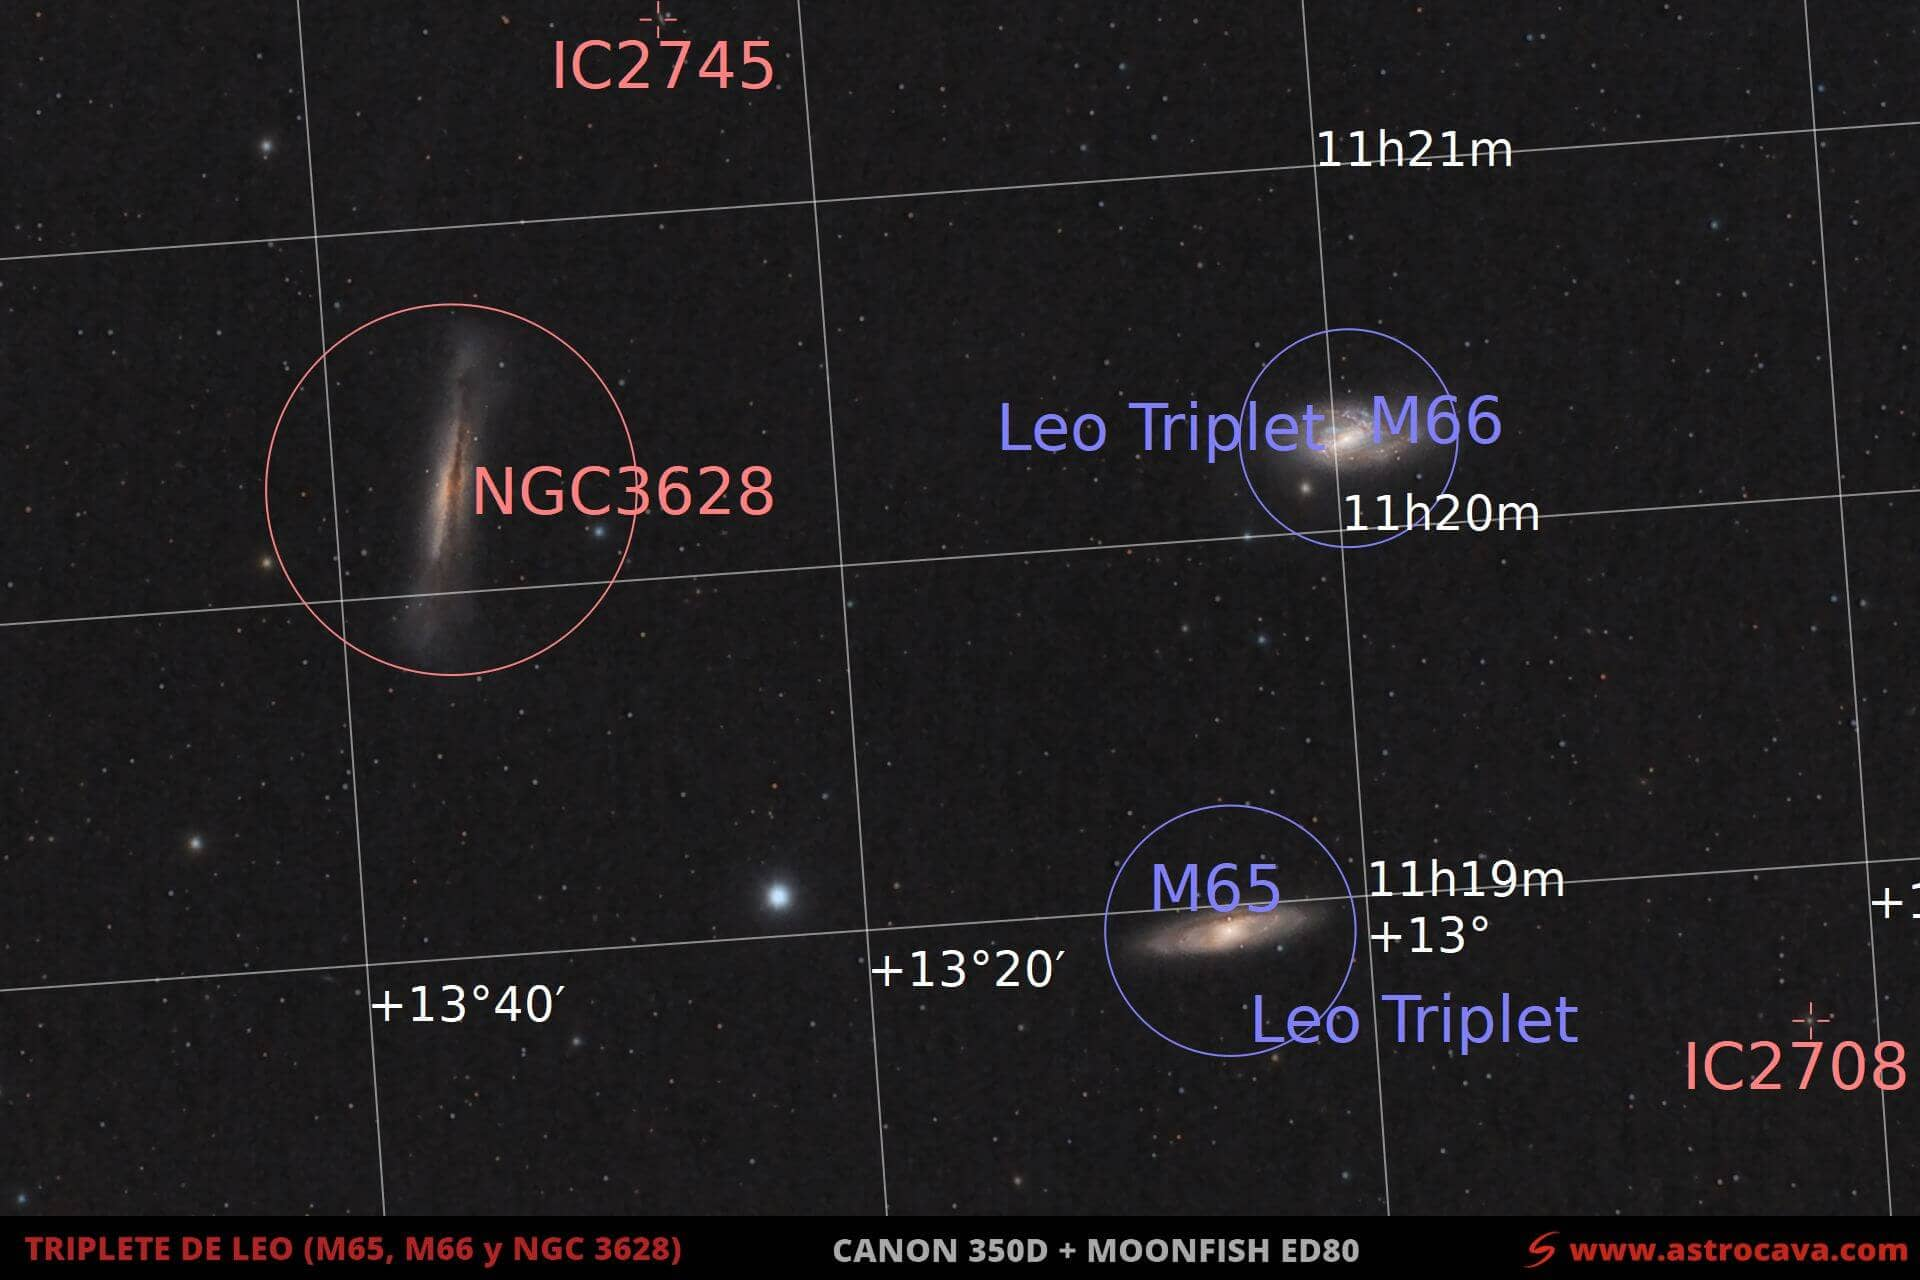
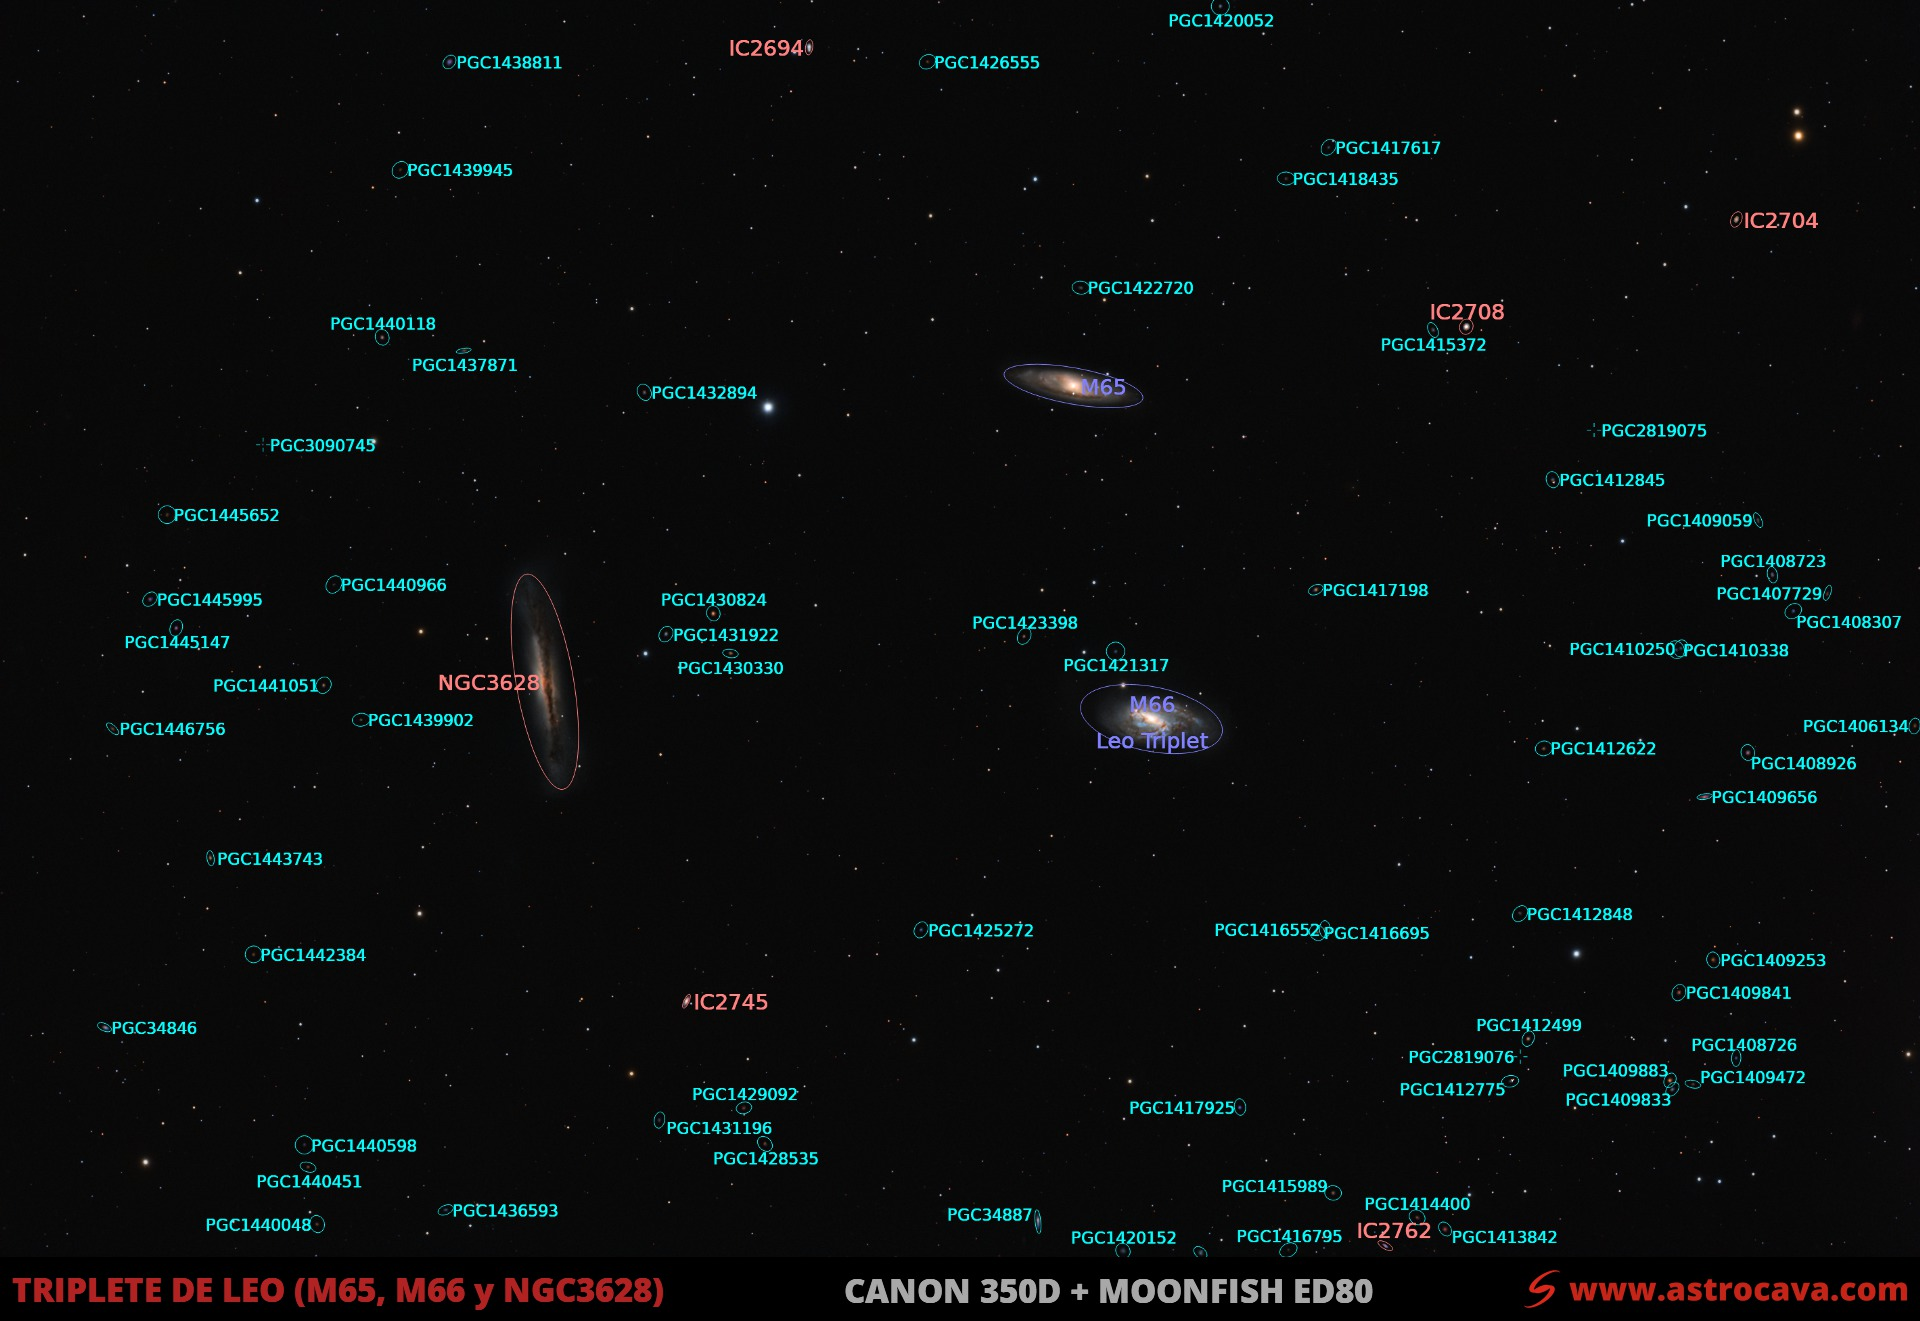
Update Leo Triplet imagery

diff --git a/src/content/entries/el-triplete-de-galaxias-en-leo-m65-m66-y-ngc3628.md b/src/content/entries/el-triplete-de-galaxias-en-leo-m65-m66-y-ngc3628.md
@@ -24,4 +24,4 @@ twitter_title: ''
 twitter_description: ''
 twitter_image: /content/images/2024/04/triplete-galaxias-leo-m65-m66-ngc3628_2011_canon-350d_refractor-ed80_original.jpg
 ---
-<p>El famoso «Triplete de Leo», formado por las galaxias M65 y M66 pertenecientes al <a href="/tag/messier/" rel="noreferrer">Catálogo Messier</a> junto a NGC3628, todas ellas espirales pero con inclinaciones variadas respecto a nuestro punto de vista que las hacen aparecer muy diferentes a la hora de observarlas o fotografiarlas.</p><ul><li>Exposición: 24x600s</li><li>Fecha adquisición: 25/01/2011</li><li>Equipo: Moonfish ED80-Canon EOS 350D</li></ul><figure class="kg-card kg-image-card kg-width-wide"><img src="/content/images/2024/04/triplete-galaxias-leo-m65-m66-ngc3628_2011_canon-350d_refractor-ed80_anotada.jpg" class="kg-image" alt="" loading="lazy" width="1920" height="1280" srcset="/content/images/size/w600/2024/04/triplete-galaxias-leo-m65-m66-ngc3628_2011_canon-350d_refractor-ed80_anotada.jpg 600w, /content/images/size/w1000/2024/04/triplete-galaxias-leo-m65-m66-ngc3628_2011_canon-350d_refractor-ed80_anotada.jpg 1000w, /content/images/size/w1600/2024/04/triplete-galaxias-leo-m65-m66-ngc3628_2011_canon-350d_refractor-ed80_anotada.jpg 1600w, /content/images/2024/04/triplete-galaxias-leo-m65-m66-ngc3628_2011_canon-350d_refractor-ed80_anotada.jpg 1920w" sizes="(min-width: 1200px) 1200px"></figure><p>Las tres galaxias, visualmente muy cercanas entre sí, agradecen compartir el mismo campo en el ocular, para apreciar sus diferencias de forma y luminosidad que son evidentes en las fotografías. En fotos de larga exposición desde cielos más oscuros que los míos se pueden observar los jirones de materia fruto de la interacción gravitatoria del grupo, como en esta foto de Markus Bauer del <a href="https://apod.nasa.gov/apod/ap190418.html">APOD del 18 de abril de 2019</a>.</p><figure class="kg-card kg-image-card kg-card-hascaption"><img src="/content/images/2024/04/triplete-galaxias-leo_galaxia-m65_2011_canon-350d_refractor-ed80_original.jpg" class="kg-image" alt="Galaxia M65 en el triplete de galaxias de Leo" loading="lazy" width="500" height="500"><figcaption><span style="white-space: pre-wrap;">Galaxia M65 en el triplete de galaxias de Leo</span></figcaption></figure><figure class="kg-card kg-image-card kg-card-hascaption"><img src="/content/images/2024/04/triplete-galaxias-leo_galaxia-m66_2011_canon-350d_refractor-ed80_original.jpg" class="kg-image" alt="Galaxia M66 en el triplete de galaxias de Leo" loading="lazy" width="500" height="500"><figcaption><span style="white-space: pre-wrap;">Galaxia M66 en el triplete de galaxias de Leo</span></figcaption></figure><figure class="kg-card kg-image-card kg-card-hascaption"><img src="/content/images/2024/04/triplete-galaxias-leo_galaxia-ngc3628_2011_canon-350d_refractor-ed80_original.jpg" class="kg-image" alt="Galaxia NGC3628 en el triplete de galaxias de Leo" loading="lazy" width="500" height="500"><figcaption><span style="white-space: pre-wrap;">Galaxia NGC3628 en el triplete de galaxias de Leo</span></figcaption></figure>
+<p>El famoso «Triplete de Leo», formado por las galaxias M65 y M66 pertenecientes al <a href="/tag/messier/" rel="noreferrer">Catálogo Messier</a> junto a NGC3628, todas ellas espirales pero con inclinaciones variadas respecto a nuestro punto de vista que las hacen aparecer muy diferentes a la hora de observarlas o fotografiarlas.</p><ul><li>Exposición: 24x600s</li><li>Fecha adquisición: 25/01/2011</li><li>Equipo: Moonfish ED80-Canon EOS 350D</li></ul><figure class="kg-card kg-image-card kg-width-wide"><img src="/content/images/2024/04/triplete-galaxias-leo-m65-m66-ngc3628_2011_canon-350d_refractor-ed80_anotada.jpg" class="kg-image" alt="Campo anotado del Triplete de Leo con M65, M66, NGC 3628 y galaxias de fondo" loading="lazy" width="1920" height="1321" srcset="/content/images/size/w600/2024/04/triplete-galaxias-leo-m65-m66-ngc3628_2011_canon-350d_refractor-ed80_anotada.jpg 600w, /content/images/size/w1000/2024/04/triplete-galaxias-leo-m65-m66-ngc3628_2011_canon-350d_refractor-ed80_anotada.jpg 1000w, /content/images/size/w1600/2024/04/triplete-galaxias-leo-m65-m66-ngc3628_2011_canon-350d_refractor-ed80_anotada.jpg 1600w, /content/images/2024/04/triplete-galaxias-leo-m65-m66-ngc3628_2011_canon-350d_refractor-ed80_anotada.jpg 1920w" sizes="(min-width: 1200px) 1200px"></figure><p>Las tres galaxias, visualmente muy cercanas entre sí, agradecen compartir el mismo campo en el ocular, para apreciar sus diferencias de forma y luminosidad que son evidentes en las fotografías. En fotos de larga exposición desde cielos más oscuros que los míos se pueden observar los jirones de materia fruto de la interacción gravitatoria del grupo, como en esta foto de Markus Bauer del <a href="https://apod.nasa.gov/apod/ap190418.html">APOD del 18 de abril de 2019</a>.</p><figure class="kg-card kg-image-card kg-card-hascaption"><img src="/content/images/2024/04/triplete-galaxias-leo_galaxia-m65_2011_canon-350d_refractor-ed80_original.jpg" class="kg-image" alt="Galaxia M65 en el triplete de galaxias de Leo" loading="lazy" width="640" height="640"><figcaption><span style="white-space: pre-wrap;">Galaxia M65 en el triplete de galaxias de Leo</span></figcaption></figure><figure class="kg-card kg-image-card kg-card-hascaption"><img src="/content/images/2024/04/triplete-galaxias-leo_galaxia-m66_2011_canon-350d_refractor-ed80_original.jpg" class="kg-image" alt="Galaxia M66 en el triplete de galaxias de Leo" loading="lazy" width="640" height="640"><figcaption><span style="white-space: pre-wrap;">Galaxia M66 en el triplete de galaxias de Leo</span></figcaption></figure><figure class="kg-card kg-image-card kg-card-hascaption"><img src="/content/images/2024/04/triplete-galaxias-leo_galaxia-ngc3628_2011_canon-350d_refractor-ed80_original.jpg" class="kg-image" alt="Galaxia NGC3628 en el triplete de galaxias de Leo" loading="lazy" width="640" height="640"><figcaption><span style="white-space: pre-wrap;">Galaxia NGC3628 en el triplete de galaxias de Leo</span></figcaption></figure>

diff --git a/ATTRIBUTIONS.md b/ATTRIBUTIONS.md
@@ -103,4 +103,4 @@ Crédito: **Ilustración generada con Midjourney por Sergio Cava**. La [CC BY 4.
 | Dominio público | 7 | 15 |
 | **Total** | **282** | **670** |
 
[2 lines of base64/hex data omitted]
